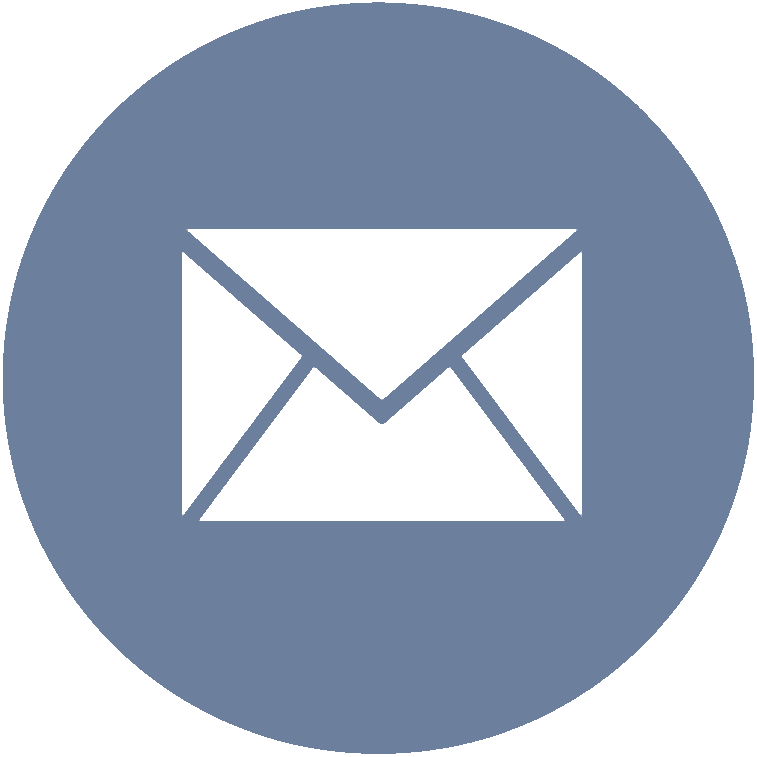
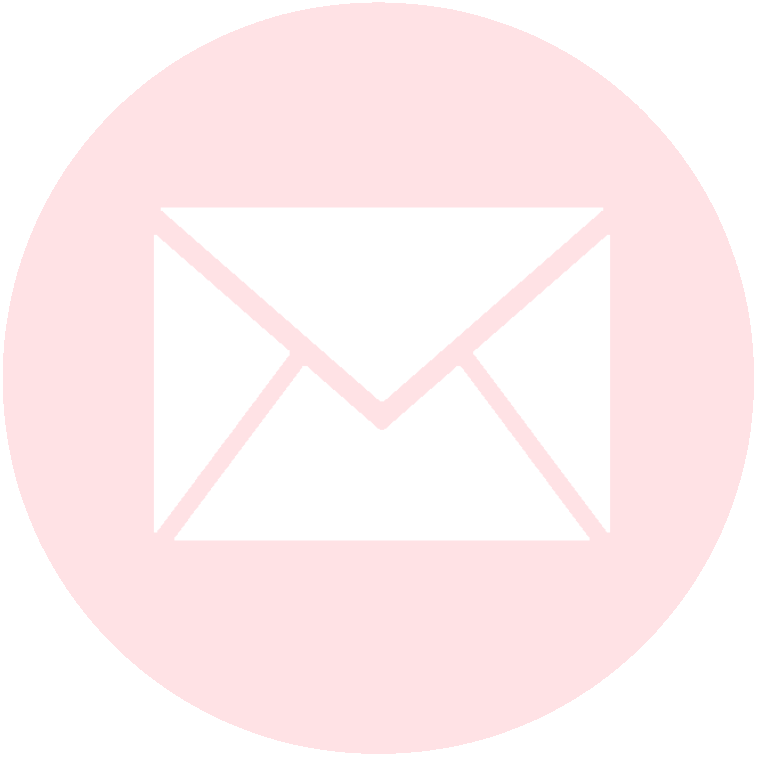
adding profile section

diff --git a/style.css b/style.css
@@ -8,67 +8,141 @@ body{
     -moz-background-size: cover;
     -o-background-size: cover;
     background-size: cover;
+    max-height: 100vh;
 }
 
-.header{ 
-    height: 100px;
-    width: 100%;
+/*********** profile section ***********/
+#profile{
+    display: flex;
+    flex-direction: column;
+    justify-content: space-evenly;
+    align-items: center;
+    position: fixed;
+    width: 350px;
+    height: 100vh;
+    background: rgba(255, 255, 255, 0.14) 
 }
 
-#title{
-    font-size: 48px;
-    padding-left: 20px;
-    color: #ffeff2;
+#name{
+    font-size: 44px;
+    color: #FFF7F8;
     font-weight: 570;
-    float: left;
+    text-align: center;
 }
 
-.links {
-    margin-left: auto;
-    padding-top: 15px;
-    padding-right: 15px;
+#profile-pic{
+    width: 250px;
+    height: 250px;
 }
 
-.icon {
-    height: 20px;
-    width: 20px;
-}
-
-
-ul {
+#navigation{
     list-style-type: none;
     margin: 0;
     padding: 0;
     width: 100%;
-    text-align: right;
+    text-align: center;
 }
 
-li {
-    display: inline-block;
-    vertical-align: top;
-    padding-right: 15px;
-    padding-left: 15px;
-    float: none;
-    font-size: 24px;
+#navigation li {
+    display: block;
+    font-size: 28px;
     font-weight: 600;
     border-bottom: 5px solid transparent;
+    margin: 10px 0;
 }
 
-a:link, :visited {
-    color: #6c7f9c;
-    /* color: #8aa4cc; */
+#navigation a:link, :visited {
+    color: #FFF7F8;
     text-decoration: none;
 }
 
-a:hover {
-    border-bottom: 3px solid #6c7f9c;
+#navigation a:hover {
+    border-bottom: 3px solid #FFF7F8;
     display: inline-block;
     margin-bottom: -3px;
 }
 
 #onpage {
-    border-bottom: 3px solid #6c7f9c;
+    border-bottom: 3px solid #FFF7F8;
 }
+
+#socials{
+    list-style-type: none;
+    margin: 0;
+    padding: 0;
+    width: 100%;
+    text-align: center;
+    padding-bottom: 20px;
+}
+
+#socials li {
+    display: inline-block;
+    margin: 0 10px;
+}
+
+.icon {
+    height: 35px;
+    width: 35px;
+}
+
+
+@media (max-width: 800px) {
+    #profile {
+        width: 100vw;
+        height: 100vh;
+        position: relative;
+    }
+}
+
+/*********** content section ***********/
+#content {
+    padding: 30px 30px 30px 380px;
+}
+
+@media (max-width: 800px) {
+    #content{
+        padding: 30px 10px;
+    }
+}
+
+
+/*********** content section ***********/
+#progress{
+    background:rgba(162, 178, 213, 0.6);
+    height: 100%;
+    width: 3px;
+    position: fixed;
+    right: 50px;
+    top: 0px;
+}
+
+@media (max-width: 800px) {
+    #progress{
+        display: none;
+    }
+}
+
+.dot {
+    height: 25px;
+    width: 25px;
+    background-color: rgba(162, 178, 213, 0.6);
+    border-radius: 50%;
+    display: block;
+}
+
+.dot-onpage {
+    height: 25px;
+    width: 25px;
+    border: 3px solid rgba(162, 178, 213, 0.6);
+    border-radius: 50%;
+    display: block;
+}
+
+
+
+
+/* old */
+
 
 .table {
     padding: 30px;
@@ -106,30 +180,10 @@ a:hover {
     color: #ffeff2;
 }
 
-.pic-background {
-    display: inline-flex;
-    justify-content: center;
-    align-items: center;
-    width: 33vw;
-    height: 33vw;
-    /* vertical-align: middle; */
-    /* display: inline-block; */
-    border-radius: 50%;
-    background-color: rgba(0, 0, 0, .6);
-}
-
-.my-pic {
-    /* vertical-align: middle; */
-    /* display: inline-block; */
-    width:28vw;
-    height: 28vw;
-    border-radius: 50%;
-}
-
-@media screen and (max-width: 420px) {
+/* @media screen and (max-width: 420px) {
     #title {
         font-size: 48px;
-        float: center;
+        float: none;
     }
 
     ul {
@@ -154,4 +208,4 @@ a:hover {
         font-size: 14px;
     }
 
-}
+} */

diff --git a/index.html b/index.html
@@ -9,24 +9,52 @@
 </head>
 
 <body>
+    
+    <div id="profile">
 
-    <div class="header">    
-        <div class="links">
-            <ul>
-                <span id="title">HI, I'M DIVYA</span>
-                <li><a id="onpage" href=#>HOME</a></li>
-                <li><a href="about.html">ABOUT</a></li>
-                <li><a href="https://github.com/dgupta18"><img class="icon" src="img/github.png"></a></li>
-                <li><a href="https://www.linkedin.com/in/divyagupta18/"><img class="icon" src="img/linkedin.png"></a></li>
-                <li><a href="mailto:guptaxdivya@gmail.com"><img class="icon" src="img/email.png"></a></li>
-            </ul>
-        </div>
+        <!-- name + pic -->
+        <div id="name">Hi, I'm Divya!</div>
+        <img id="profile-pic" src="img/profile-pic.png">
 
-        <div>
-            <!-- <div id="title">HI, I'M DIVYA</div> -->
-        </div>
+        <!-- menu links -->
+        <ul id="navigation">
+            <li><a id="onpage" href=#>About</a></li>
+            <li><a href="experience.html">Experience</a></li>
+            <li><a href="projects.html">Projects</a></li>
+            <li><a href=#>Resume</li>
+                <!-- link resume here -->
+        </ul>
+
+        <!-- socials -->
+        <ul id="socials">
+            <li><a href="https://github.com/dgupta18"><img class="icon" src="img/github.png"></a></li>
+            <li><a href="https://www.linkedin.com/in/divyagupta18/"><img class="icon" src="img/linkedin.png"></a></li>
+            <li><a href="mailto:guptaxdivya@gmail.com"><img class="icon" src="img/email2.png"></a></li>
+        </ul>
     </div>
 
+    <div id="content">
+        <div id="name">Hi, I'm Divya!</div>
+        <div id="name">Hi, I'm Divya!</div>
+        <div id="name">Hi, I'm Divya!</div>
+        <div id="name">Hi, I'm Divya!</div>
+        <div id="name">Hi, I'm Divya!</div>
+        <div id="name">Hi, I'm Divya!</div>
+        <div id="name">Hi, I'm Divya!</div>
+        <div id="name">Hi, I'm Divya!</div>
+        <div id="name">Hi, I'm Divya!</div><div id="name">Hi, I'm Divya!</div>
+        <div id="name">Hi, I'm Divya!</div>
+        <div id="name">Hi, I'm Divya!</div>
+        <div id="name">Hi, I'm Divya!</div>
+        <div id="name">Hi, I'm Divya!</div>
+        <div id="name">Hi, I'm Divya!</div>
+        <div id="name">Hi, I'm Divya!</div>
+        
+    </div>
+
+    <div id="progress">
+
+    </div>
     
     
 </body>
